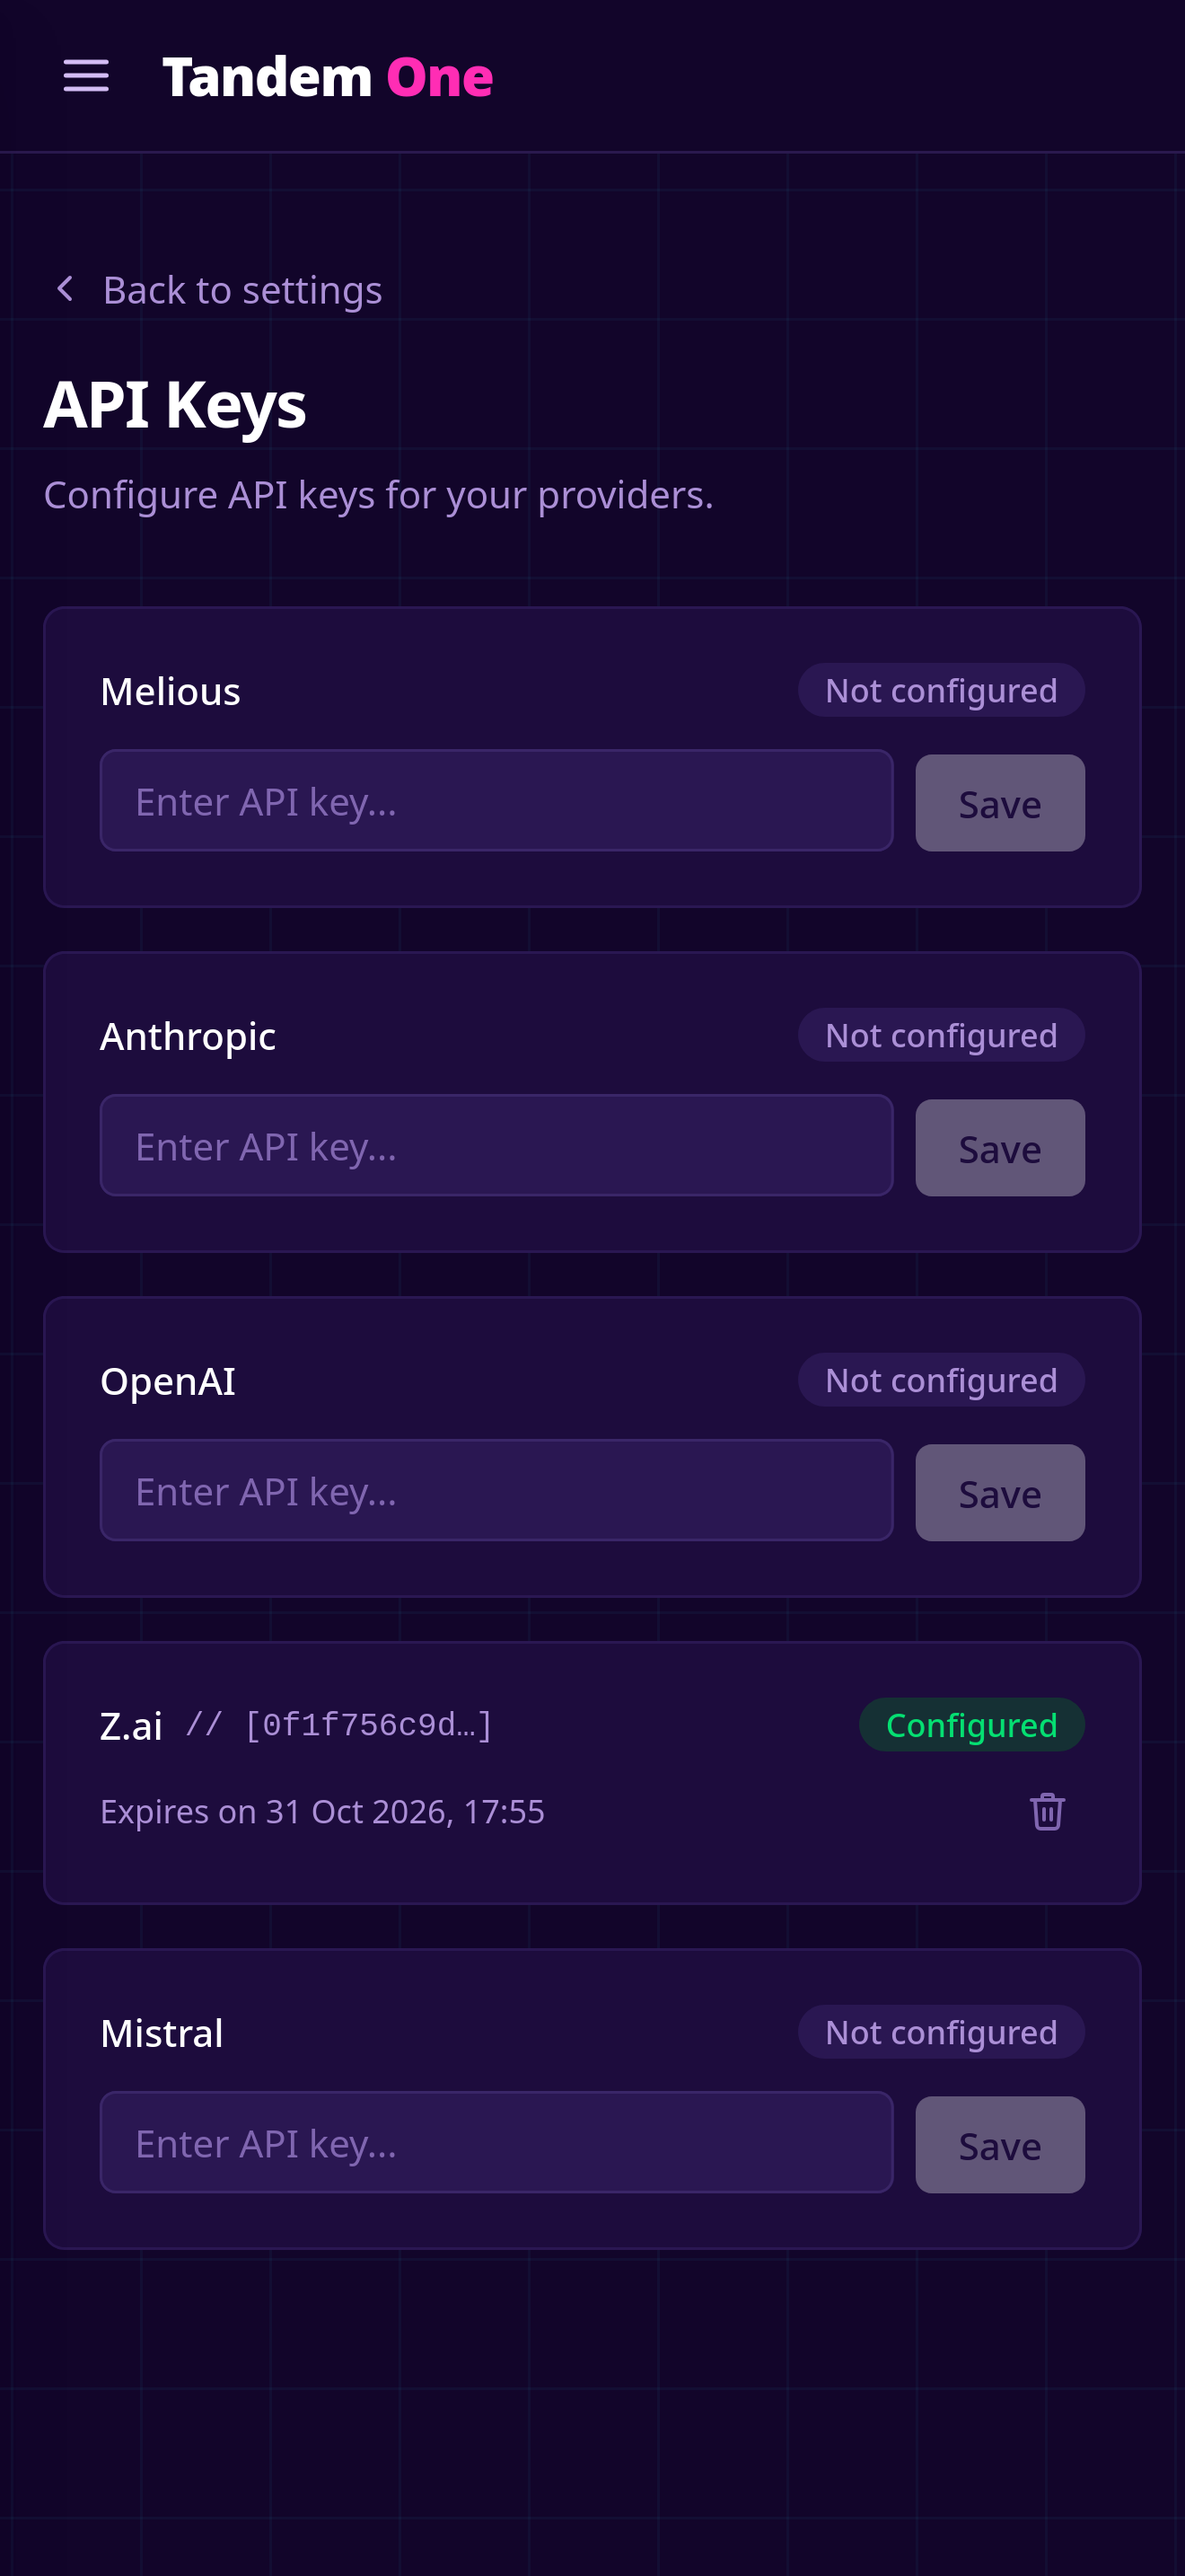
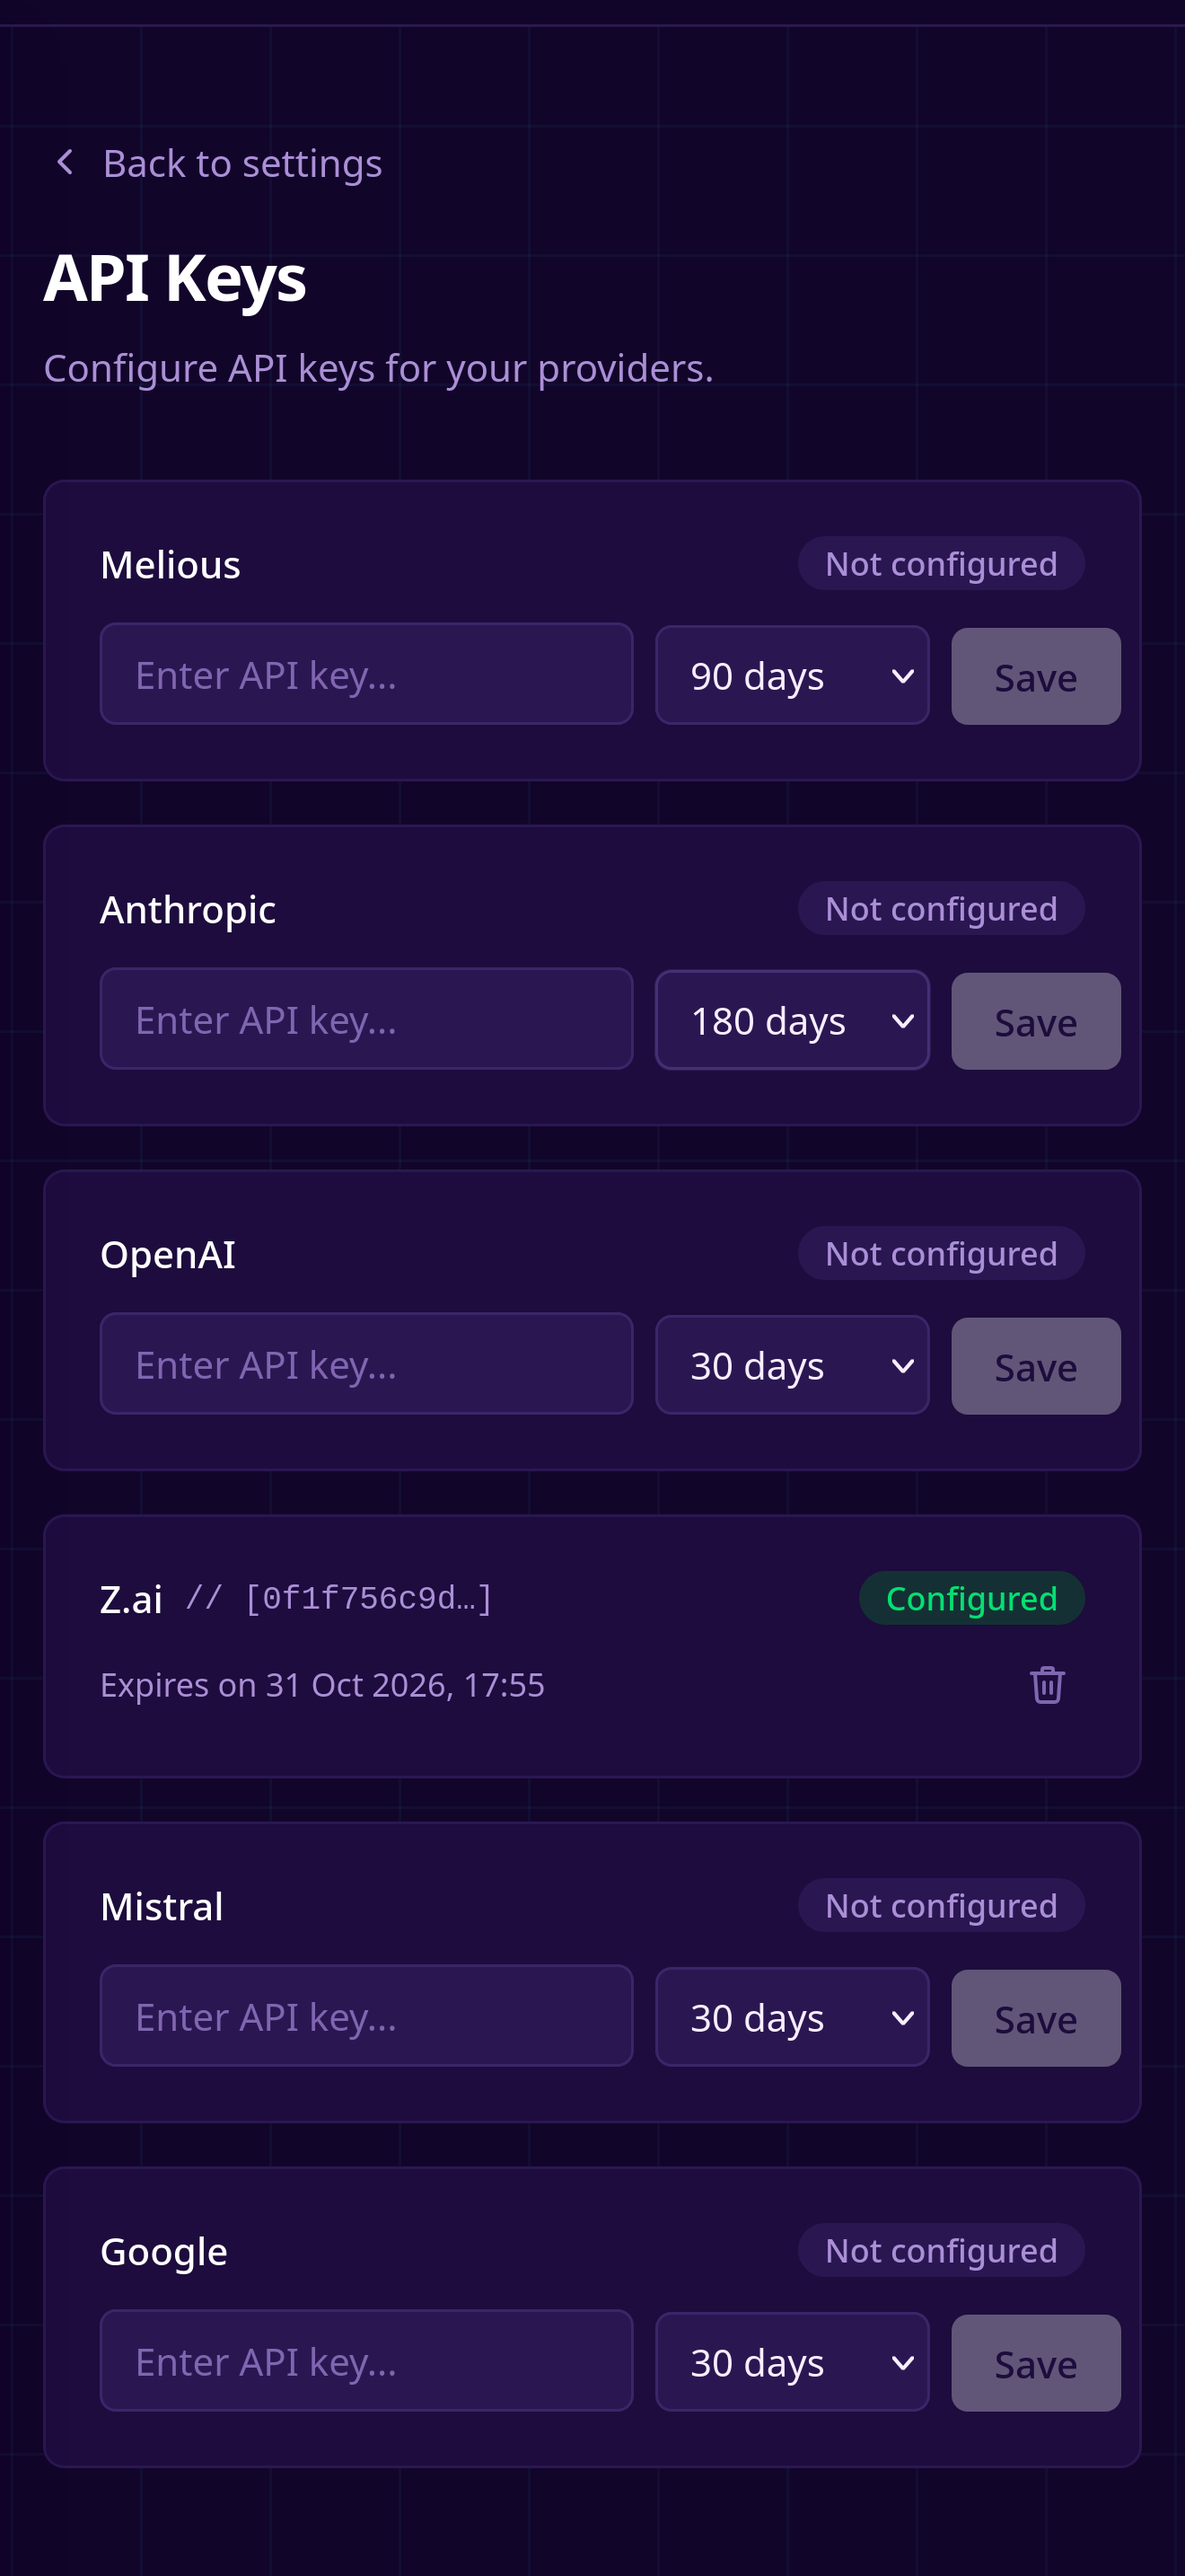
Added new thinking terms, added option to set expiry days for provider API keys.

diff --git a/src/pages/settings-keys-page.tsx b/src/pages/settings-keys-page.tsx
@@ -5,10 +5,14 @@ import { getProviderConfiguration, type ProviderConfiguration } from "../service
 import { deleteUserKey } from "../services/delete-user-key"
 import { saveUserKey } from "../services/save-user-key"
 
+const EXPIRY_OPTIONS = [30, 90, 180]
+const DEFAULT_EXPIRY_DAYS = EXPIRY_OPTIONS[0]
+
 export function SettingsKeysPage() {
     const [providers, setProviders] = useState<ProviderConfiguration[]>([])
     const [loading, setLoading] = useState(true)
     const [keyInputs, setKeyInputs] = useState<Record<string, string>>({})
+    const [expiryInputs, setExpiryInputs] = useState<Record<string, number>>({})
     const [saving, setSaving] = useState<string | null>(null)
     const [deleting, setDeleting] = useState<string | null>(null)
     const [error, setError] = useState<string | null>(null)
@@ -30,13 +34,16 @@ export function SettingsKeysPage() {
         const key = keyInputs[providerName]?.trim()
         if (!key) return
 
+        const expiryDays = expiryInputs[providerName] ?? DEFAULT_EXPIRY_DAYS
+
         setSaving(providerName)
         setError(null)
         setSuccess(null)
 
         try {
-            await saveUserKey(providerName, key)
+            await saveUserKey(providerName, key, expiryDays)
             setKeyInputs((prev) => ({ ...prev, [providerName]: "" }))
+            setExpiryInputs((prev) => ({ ...prev, [providerName]: DEFAULT_EXPIRY_DAYS }))
             setSuccess(`API key saved for ${providerName}`)
             loadProviders()
         } catch {
@@ -164,6 +171,24 @@ export function SettingsKeysPage() {
                                             placeholder="Enter API key..."
                                             className="flex-1 rounded-lg border border-ui-700 bg-ui-800 px-3 py-2 text-sm text-ui-100 placeholder-ui-500 outline-none transition focus:border-ui-600 focus:ring-1 focus:ring-ui-600"
                                         />
+                                        <select
+                                            value={expiryInputs[provider.name] ?? DEFAULT_EXPIRY_DAYS}
+                                            onChange={(e) =>
+                                                setExpiryInputs((prev) => ({
+                                                    ...prev,
+                                                    [provider.name]: Number(e.target.value),
+                                                }))
+                                            }
+                                            title="Days until expiry"
+                                            aria-label={`Days until API key expiry for ${provider.name}`}
+                                            className="shrink-0 cursor-pointer rounded-lg border border-ui-700 bg-ui-800 px-3 py-2 text-sm text-ui-100 outline-none transition focus:border-ui-600 focus:ring-1 focus:ring-ui-600"
+                                        >
+                                            {EXPIRY_OPTIONS.map((days) => (
+                                                <option key={days} value={days}>
+                                                    {days} days
+                                                </option>
+                                            ))}
+                                        </select>
                                         <button
                                             onClick={() => handleSave(provider.name)}
                                             disabled={!keyInputs[provider.name]?.trim() || saving === provider.name}

diff --git a/src/components/thinking-indicator.tsx b/src/components/thinking-indicator.tsx
@@ -18,7 +18,32 @@ const PHRASES = [
     "Melting the mainframe",
     "Woolgathering",
     "Churning butter",
-    "Grinding the gears"
+    "Grinding the gears",
+    "Ruminating",
+    "Cogitating",
+    "Percolating",
+    "Chewing on it",
+    "Stewing",
+    "Simmering",
+    "Marinating",
+    "Distilling",
+    "Wracking the noggin",
+    "Puzzling it out",
+    "Reticulating splines",
+    "Overclocking",
+    "Defragging the brain",
+    "Greasing the wheels",
+    "Spinning plates",
+    "Untangling the yarn",
+    "Wrestling the muse",
+    "Consulting the oracle",
+    "Reading the tea leaves",
+    "Hemming and hawing",
+    "Confabulating",
+    "Frobnicating",
+    "Photosynthesizing",
+    "Feeding the idea hamster",
+    "Herding thoughts"
 ]
 
 const PHRASE_INTERVAL_MS = 2800

diff --git a/src/services/save-user-key.ts b/src/services/save-user-key.ts
@@ -1,4 +1,4 @@
-export async function saveUserKey(providerName: string, apiKey: string): Promise<void> {
+export async function saveUserKey(providerName: string, apiKey: string, expiryDays: number): Promise<void> {
     const applicationKey = import.meta.env.VITE_API_KEY
     const response = await fetch(
         `${import.meta.env.VITE_API_BASE_URL}/api/v1/settings/user/keys`, {
@@ -11,6 +11,7 @@ export async function saveUserKey(providerName: string, apiKey: string): Promise
             body: JSON.stringify({
                 provider: providerName,
                 api_key: apiKey,
+                expiry_days: expiryDays,
             })
         }
     )
